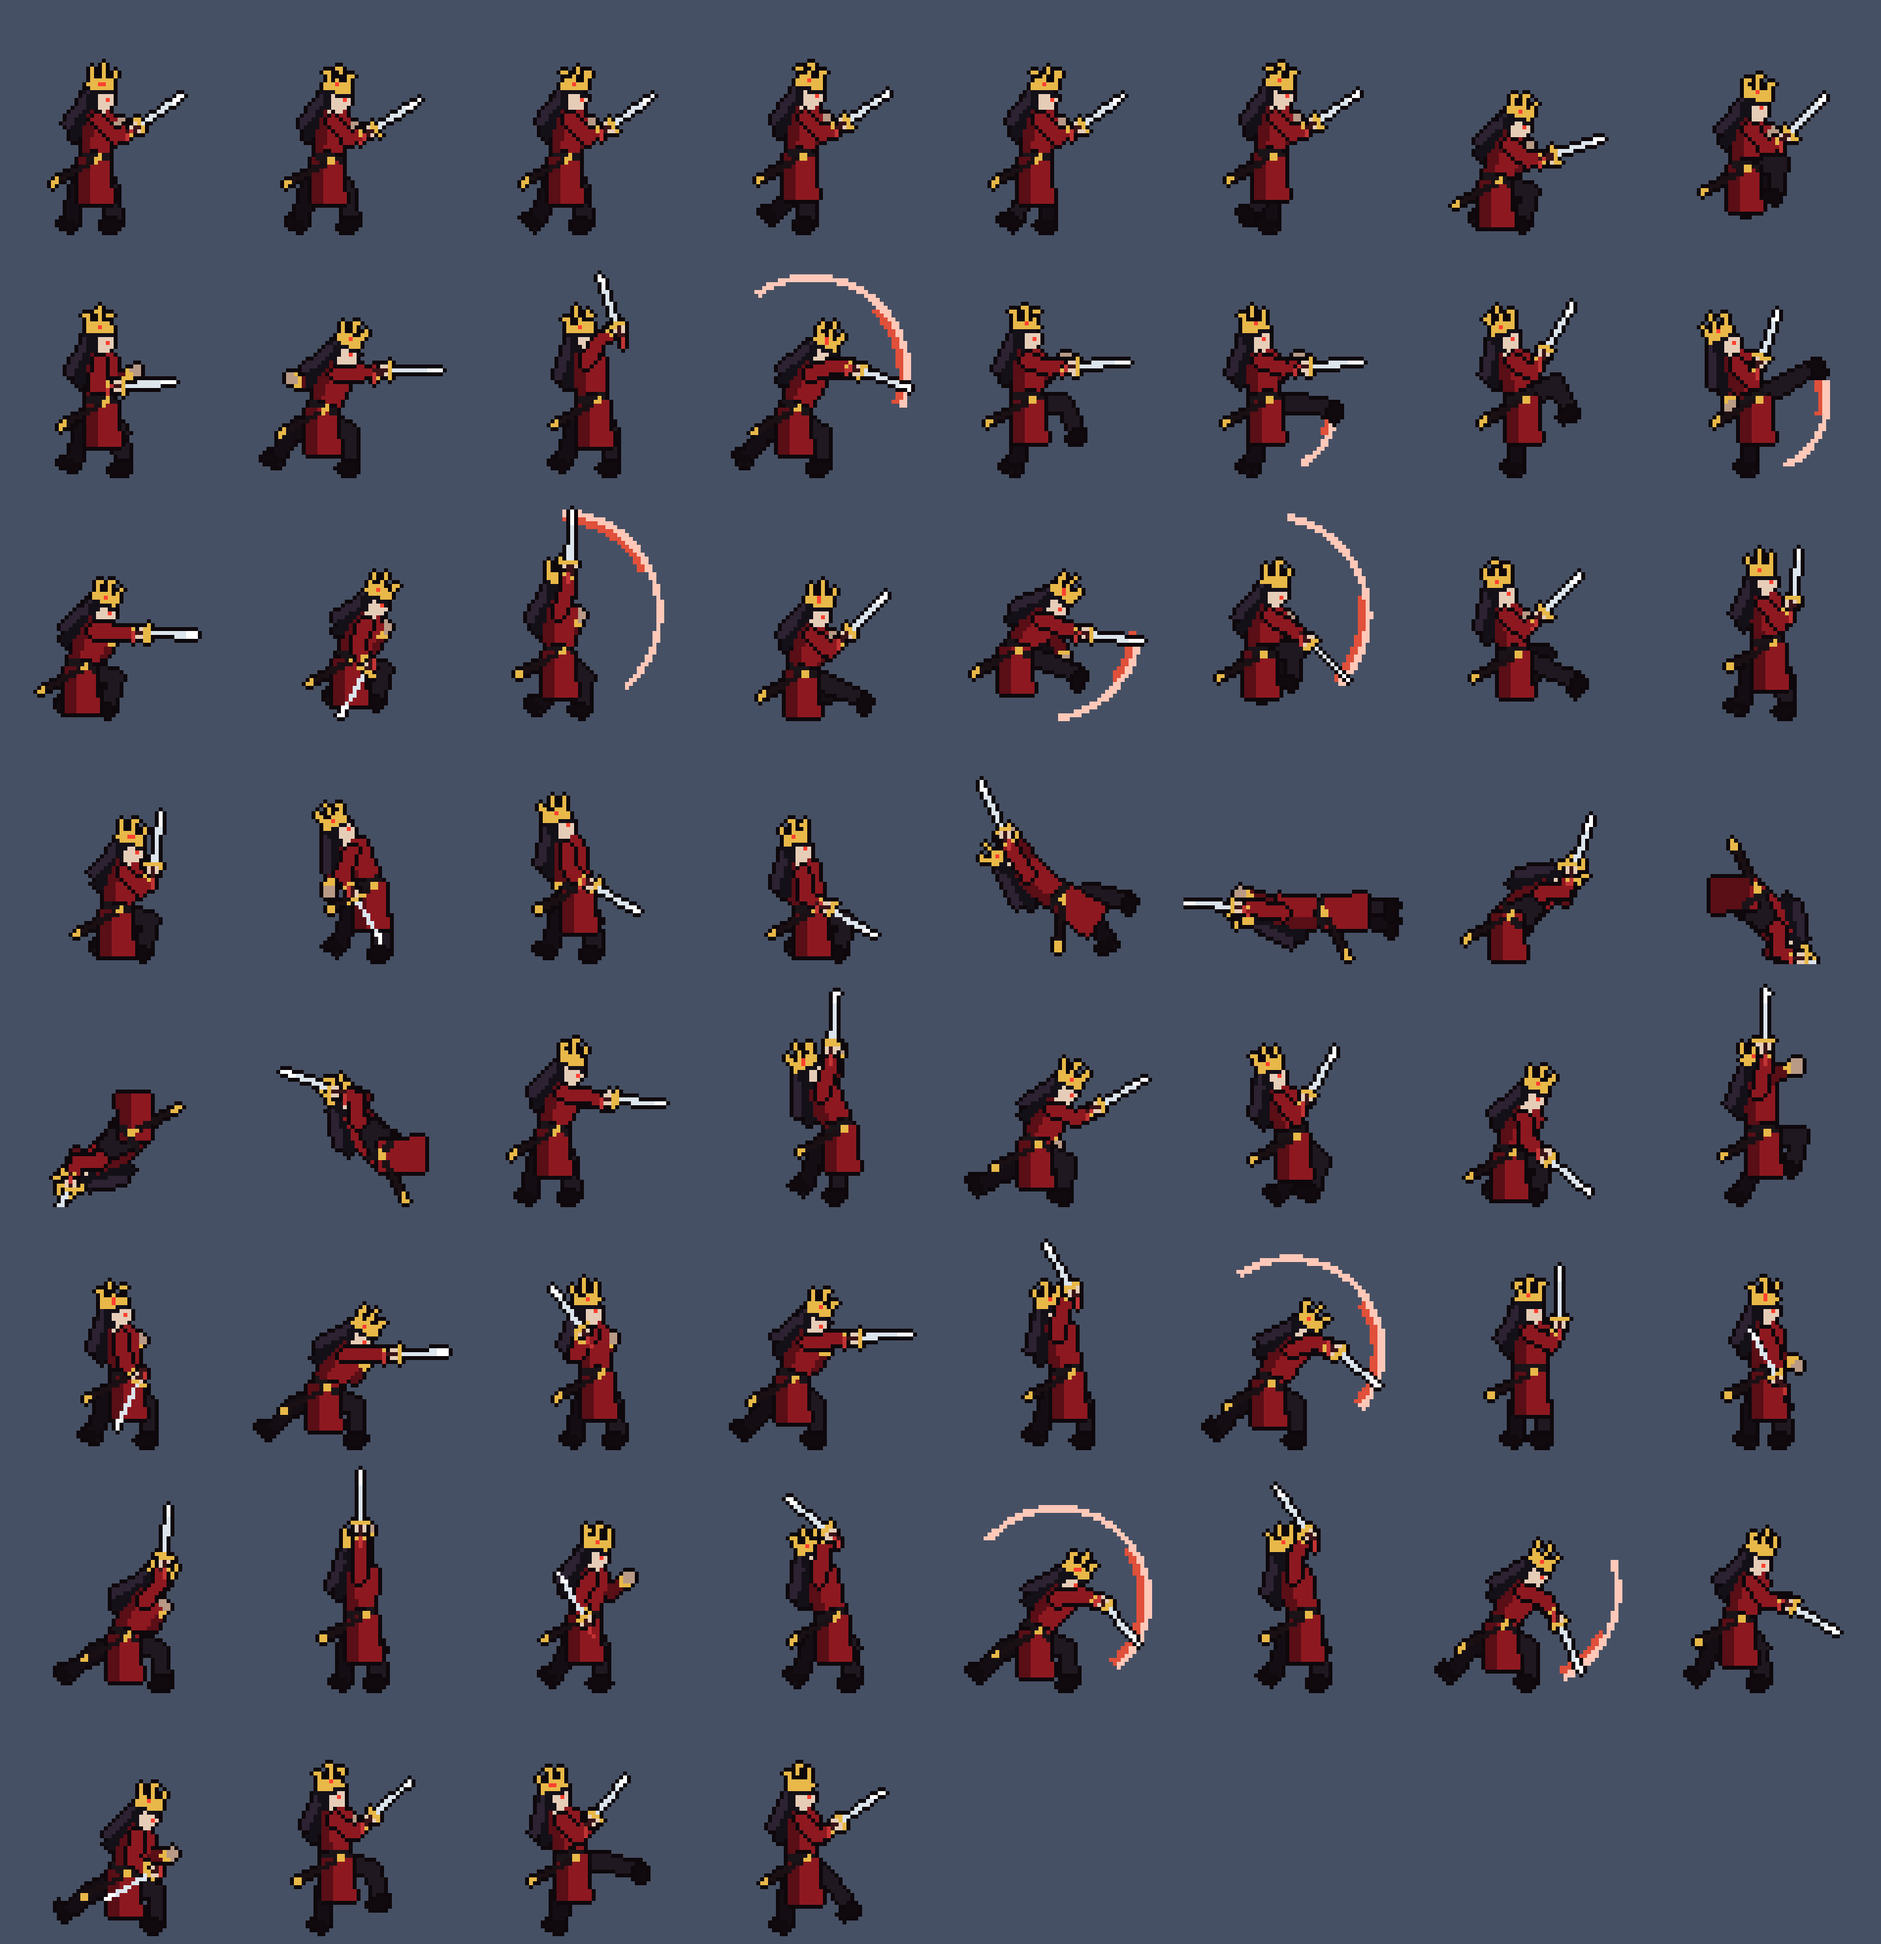
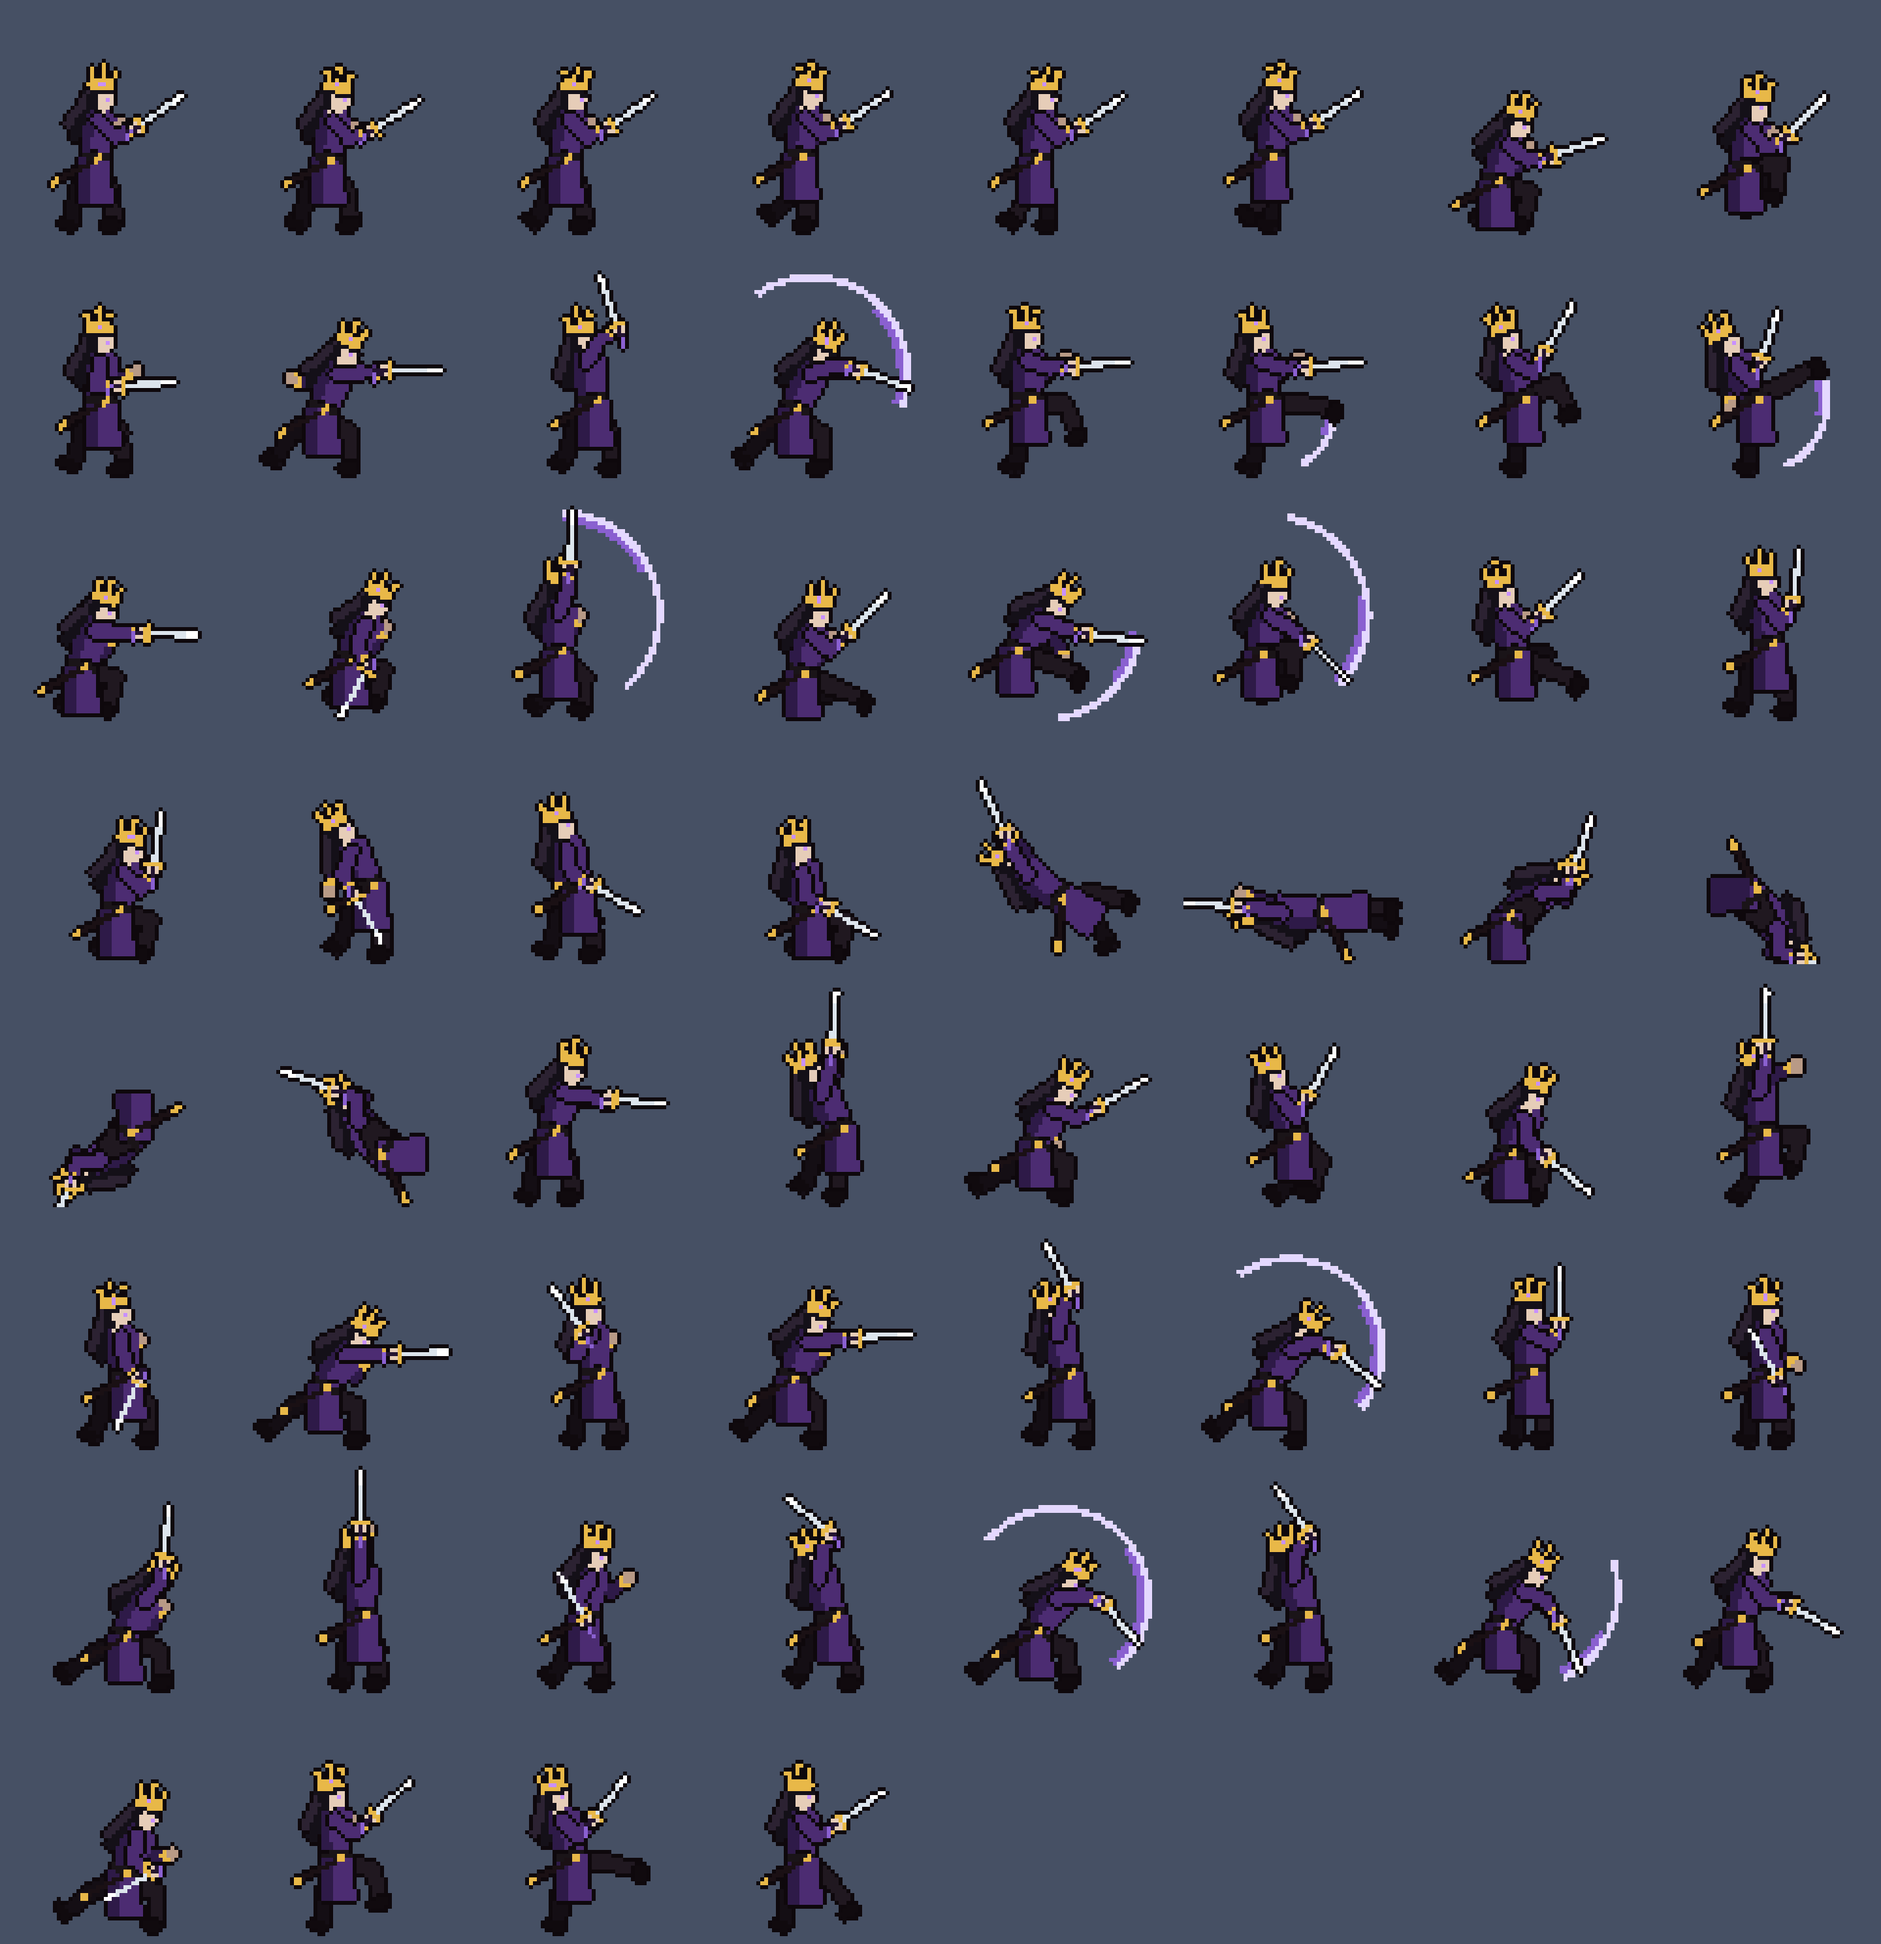
Cheonma: 삼절검 strokes cross in an X with a third straight down the middle; Cheonma's colour is violet and steel (red is left for the Blood Demon)
Claude-Session: https://claude.ai/code/session_019D5KftdDEDaYgXZVtoNLE8

diff --git a/web/src/fighter.ts b/web/src/fighter.ts
@@ -896,7 +896,7 @@ export function clearGhosts(i: number): void { mGN[i] = 0; }
 
 function ghostColor(i: number): number {
   if (F[i].rage > 0) return RGB(150, 24, 18);
-  return F[i].prefix === "heukrim" || F[i].prefix === "sd_heuksa" ? RGB(74, 56, 96) : F[i].prefix === "cheonma" ? RGB(96, 30, 40) : -1;
+  return F[i].prefix === "heukrim" || F[i].prefix === "sd_heuksa" ? RGB(74, 56, 96) : F[i].prefix === "cheonma" ? RGB(60, 44, 92) : -1;
 }
 
 function updateGhosts(i: number): void {
@@ -1025,7 +1025,7 @@ function drawOne(i: number): void {
   }
   if ((demonAwake(i) || drainLinked(i)) && tint < 0) {
     if (Math.trunc(mFrame / 2) % 2 === 0 || drainLinked(i)) {
-      const red = RGB(200, 30, 50);
+      const red = drainLinked(i) ? RGB(200, 30, 50) : RGB(130, 80, 210);   // Cheonma's awakening glows violet
       R.drawSprite(currentSprite(i), x - 1, y, flip, red);
       R.drawSprite(currentSprite(i), x + 1, y, flip, red);
       R.drawSprite(currentSprite(i), x, y - 1, flip, red);
@@ -1088,12 +1088,12 @@ function drawDemonPalm(i: number): void {
   const lit = t <= D.MvActive[F[i].mv];
   const ink = (ch: string): number => {
     switch (ch) {
-      case "o": return RGB(90, 8, 22);
-      case "d": return RGB(150, 20, 38);
-      case "r": return lit ? RGB(220, 40, 58) : RGB(150, 20, 38);
-      case "l": return lit ? RGB(255, 120, 130) : RGB(220, 40, 58);
-      case "w": return lit ? RGB(255, 215, 215) : RGB(255, 120, 130);
-      case "g": return lit ? RGB(255, 70, 90) : -1;
+      case "o": return RGB(34, 14, 56);
+      case "d": return RGB(80, 40, 130);
+      case "r": return lit ? RGB(124, 72, 196) : RGB(80, 40, 130);
+      case "l": return lit ? RGB(184, 150, 240) : RGB(124, 72, 196);
+      case "w": return lit ? RGB(238, 232, 255) : RGB(184, 150, 240);
+      case "g": return lit ? RGB(150, 100, 230) : -1;
     }
     return -1;
   };
@@ -1546,7 +1546,8 @@ function waveAt(i: number, k: number, t: number, ox: number): [number, number] {
 }
 
 
-const C_DARK = () => RGB(70, 6, 18), C_RED = () => RGB(200, 24, 44), C_HOT = () => RGB(255, 96, 104), C_CORE = () => RGB(255, 236, 236);
+// Cheonma's colour is violet and steel (red belongs to the Blood Demon)
+const C_DARK = () => RGB(34, 14, 56), C_RED = () => RGB(104, 52, 168), C_HOT = () => RGB(176, 140, 236), C_CORE = () => RGB(240, 236, 255);
 
 function burst(cx: number, cy: number, s: number, big: number): void {
   if (s < 0 || s > 12) return;
@@ -1630,32 +1631,33 @@ function drawCrash(i: number, t: number): void {
       }
     }
   } else {
-    // 삼절검: three blades fall slanting the same way (front-high to back-low) and cut three parallel scars;
-    // when all three strike clean the scars stay as afterimages, then break together
+    // 삼절검: three blades fall slanting the same way (front-high to back-low) and cut three parallel brush strokes;
+    // when all three strike clean the strokes stay as smouldering afterimages, then break together
     const ghost = (f.hitCount & GHOST) !== 0;
     for (let k = 0; k < 3; k++) {
-      const s = t - CRASH_BLADES[k], g = scarLine(i, k);
-      if (s === -2 || s === -1) thickLine(g[0], g[1], g[2], g[3], 0.4, C_RED(), C_RED());   // a faint line marks the cut
+      const s = t - CRASH_BLADES[k], g = scarLine(i, k), bend = [3, -3, 0][k] * f.facing;
+      if (s === -2 || s === -1) brush(g, bend, 0.5, C_RED(), C_RED(), 1, t);                 // a faint line marks the cut
       if (s === 0) drawFallingBlade(g, 0.45);
-      if (s === 1) { drawFallingBlade(g, 1); thickLine(g[0], g[1], g[2], g[3], 3.5, C_CORE(), C_HOT()); }
-      if (s >= 2 && s < 5) thickLine(g[0], g[1], g[2], g[3], 3.5 - s * 0.5, s < 3 ? C_CORE() : C_HOT(), C_RED());
+      if (s === 1) { drawFallingBlade(g, 1); brush(g, bend, 4.5, C_CORE(), C_HOT(), 1, t); }
+      if (s >= 2 && s < 5) {
+        for (let e = 2; e >= 1; e--) brush(g, bend, 2.5, e === 1 ? C_RED() : C_DARK(), C_DARK(), 0.5, t, e * 3);   // the sweep's trail
+        brush(g, bend, 4.5 - s * 0.5, s < 3 ? C_CORE() : C_HOT(), C_RED(), 1, t);
+      }
       if (s >= 1) burst(g[2], g[3], s - 1, k === 2 ? 3 : 2);
-      if (ghost && s >= 5 && t < CRASH_GHOST_END) {        // the scar left hanging in the air, trembling
-        const nx = -(g[3] - g[1]), ny = g[2] - g[0], L = Math.hypot(nx, ny), j = (t + k) % 4 < 2 ? 1.5 : -1.5;
-        const ox = nx / L * j, oy = ny / L * j;
-        thickLine(g[0] + ox, g[1] + oy, g[2] + ox, g[3] + oy, 1, C_DARK(), C_DARK());
-        thickLine(g[0], g[1], g[2], g[3], (t + k) % 2 ? 1.8 : 1.3, C_HOT(), C_RED());
-      } else if (!ghost && s >= 5 && s < 9) thickLine(g[0], g[1], g[2], g[3], 0.8, C_RED(), C_DARK());
-      if (ghost && t >= CRASH_GHOST_END && t < CRASH_GHOST_END + 2) thickLine(g[0], g[1], g[2], g[3], 4, C_CORE(), C_HOT());
+      if (ghost && s >= 5 && t < CRASH_GHOST_END) {        // the stroke left burning in the air
+        brush(g, bend, 3, C_DARK(), C_DARK(), 0.6, t, 3);
+        brush(g, bend, (t + k) % 2 ? 3 : 2.6, C_HOT(), C_RED(), 1, t);
+        embers(g, bend, t - CRASH_BLADES[k] - 5, k);
+      } else if (!ghost && s >= 5 && s < 9) brush(g, bend, 1.5, C_RED(), C_DARK(), 0.6, t);
+      if (ghost && t >= CRASH_GHOST_END && t < CRASH_GHOST_END + 2) brush(g, bend, 5, C_CORE(), C_HOT(), 1, t);
       if (ghost) {
         const e = t - CRASH_GHOST_END - 1;
         for (let q = 0; q < 3; q++) {
-          const u = 0.2 + q * 0.3;
-          burst(g[0] + (g[2] - g[0]) * u, g[1] + (g[3] - g[1]) * u, e - q, k === 2 ? 3.2 : 2.4);
+          const [bx, by] = bez(g, bend, 0.2 + q * 0.3);
+          burst(bx, by, e - q, k === 2 ? 3.2 : 2.4);
         }
-        if (e >= 0 && e < 10) for (let q = 0; q < 16; q++) {              // the scars shatter into red shards
-          const u = (q + 0.5) / 16, a = q * 0.9 + k, d = 3 + e * (2 + (q % 3));
-          const x0 = g[0] + (g[2] - g[0]) * u, y0 = g[1] + (g[3] - g[1]) * u;
+        if (e >= 0 && e < 10) for (let q = 0; q < 16; q++) {              // the strokes shatter into red shards
+          const a = q * 0.9 + k, d = 3 + e * (2 + (q % 3)), [x0, y0] = bez(g, bend, (q + 0.5) / 16);
           R.fillRect(clng(x0 + Math.cos(a) * d), clng(y0 + Math.sin(a) * d * 0.7 + e * e * 0.12), 2, 1, q % 3 ? C_HOT() : C_CORE());
         }
       }
@@ -1663,12 +1665,56 @@ function drawCrash(i: number, t: number): void {
   }
 }
 
-/** Scar k of 삼절검 as [x0, y0, x1, y1]: parallel cuts through the marked spot, high in front to low behind. */
+/** A point on stroke g, bowed sideways by `bend` pixels at the middle (quadratic curve). */
+function bez(g: [number, number, number, number], bend: number, u: number): [number, number] {
+  const L = Math.hypot(g[2] - g[0], g[3] - g[1]), nx = -(g[3] - g[1]) / L, ny = (g[2] - g[0]) / L;
+  const cx = (g[0] + g[2]) / 2 + nx * bend * 2, cy = (g[1] + g[3]) / 2 + ny * bend * 2, v = 1 - u;
+  return [v * v * g[0] + 2 * v * u * cx + u * u * g[2], v * v * g[1] + 2 * v * u * cy + u * u * g[3]];
+}
+
+/** One brush stroke of the sword: a hairline at the start, full in the middle, the tail splitting into bristles.
+ *  `back` shifts it against the cut's bend (the trail of the sweep); `dens` < 1 leaves pixels out. */
+function brush(g: [number, number, number, number], bend: number, w: number, core: number, edge: number,
+  dens: number, t: number, back = 0): void {
+  const N = 70;
+  for (let k = 0; k <= N; k++) {
+    const u = k / N, [x, y] = bez(g, bend, u), [x2, y2] = bez(g, bend, Math.min(1, u + 0.01));
+    const L = Math.hypot(x2 - x, y2 - y) || 1, nx = -(y2 - y) / L, ny = (x2 - x) / L;
+    const sb = Math.sign(bend) || 1, bx = x - nx * back * sb, by = y - ny * back * sb;
+    const ww = w * Math.pow(Math.sin(Math.PI * Math.min(1, u * 1.15)), 0.6);
+    if (u > 0.72) {                                     // the tail frays into three bristles
+      for (const b of [-0.7, 0, 0.7]) {
+        if (((k * 7 + b * 10 + 13) | 0) % 5 === 0) continue;
+        const px = clng(bx + nx * b * w), py = clng(by + ny * b * w);
+        if (dens >= 1 || (px + py + t) % 2 === 0) R.putPixel(px, py, b === 0 ? core : edge);
+      }
+      continue;
+    }
+    for (let d = -Math.ceil(ww); d <= Math.ceil(ww); d++) {
+      const px = clng(bx + nx * d), py = clng(by + ny * d);
+      if (dens < 1 && (px + py + t) % 2) continue;
+      R.putPixel(px, py, Math.abs(d) <= ww * 0.45 ? core : Math.abs(d) <= ww ? edge : C_DARK());
+    }
+  }
+}
+
+/** Sparks rising off a burning stroke (age a ticks since it settled). */
+function embers(g: [number, number, number, number], bend: number, a: number, k: number): void {
+  for (let q = 0; q < 12; q++) {
+    const life = (a + q * 3) % 12, u = ((q * 37 + k * 11) % 100) / 100;
+    const [x, y] = bez(g, bend, 0.08 + u * 0.8);
+    const px = clng(x + Math.sin((life + q) * 0.7) * 2), py = clng(y - life * 1.6);
+    R.putPixel(px, py, life < 4 ? C_CORE() : life < 8 ? C_HOT() : C_RED());
+    if (life < 5) R.putPixel(px, py + 1, C_RED());
+  }
+}
+
+/** Stroke k of 삼절검 as [x0, y0, x1, y1]: the first two cross in an X on the marked spot, the third falls
+ *  straight down through the crossing. */
 function scarLine(i: number, k: number): [number, number, number, number] {
-  const f = F[i], cx = f.cineCX, cy = vint(f.footY) - 22, fx = f.facing;
-  const dx = -fx * 0.62, dy = 1, L = Math.hypot(dx, dy), ux = dx / L, uy = dy / L;
-  const off = [-9, 9, 0][k], mx = cx + uy * off * fx, my = cy - ux * off * fx;
-  return [mx - ux * 30, my - uy * 30, mx + ux * 26, my + uy * 26];
+  const f = F[i], cx = f.cineCX, cy = vint(f.footY) - 22;
+  const dx = [-0.7, 0.7, 0][k] * f.facing, dy = 1, L = Math.hypot(dx, dy), ux = dx / L, uy = dy / L, r = k === 2 ? 34 : 30;
+  return [cx - ux * r, cy - uy * r, cx + ux * (k === 2 ? 22 : r), cy + uy * (k === 2 ? 22 : r)];
 }
 
 /** The blade coming down along its cut: p = 0.45 halfway in from the sky, 1 = point at the end of the cut. */

diff --git a/web/src/fx.ts b/web/src/fx.ts
@@ -27,7 +27,7 @@ export function spawnHit(x: number, y: number, heavy: boolean, prefix: string): 
     case "seolhwa": m = RGB(255, 190, 215); o = RGB(240, 100, 150); petal = true; break;
     case "heukrim": m = RGB(185, 255, 150); o = RGB(80, 190, 70); break;
     case "hongryeon": m = RGB(255, 215, 110); o = RGB(230, 70, 60); break;
-    case "cheonma": m = RGB(255, 140, 110); o = RGB(170, 30, 40); break;
+    case "cheonma": m = RGB(190, 160, 240); o = RGB(90, 50, 150); break;
     default: m = RGB(255, 224, 102); o = RGB(255, 130, 50);
   }
   const k = spawn(x, y, heavy ? FX_HEAVY : FX_HIT);

diff --git a/tools/gen_sprites.py b/tools/gen_sprites.py
@@ -444,13 +444,13 @@ CHEONMA = dict(                          # final boss (arcade): the Heavenly Dem
         "k": "0E080C",
         "s": "E6CDB8", "S": "B89A86",          # pale skin
         "h": "141018", "H": "2C2232",          # long black hair
-        "b": "8E1820", "B": "5A0E16",          # crimson robe / shade
+        "b": "4C2C72", "B": "2E1A48",          # violet robe / shade
         "w": "E8B848",                          # gold trim / crown
         "d": "1A1418",                          # black sash
         "p": "201820", "P": "140E14",
         "n": "100A0E",
-        "e": "FF4030",                          # glowing red eyes
-        "t": "FFC8B8", "T": "E0503A",          # demon trail
+        "e": "C890FF",                          # glowing violet eyes
+        "t": "E4D8FF", "T": "8A60D0",          # demon trail (violet: red is the Blood Demon's)
     },
     look=dict(arm_front="b", arm_back="B", arm_front2="b", arm_back2="B",
               leg_front="p", leg_back="P", boot="n",
@@ -459,7 +459,7 @@ CHEONMA = dict(                          # final boss (arcade): the Heavenly Dem
     head="cheonma",
     scabbard=dict(length=14),
 )
-CHEONMA["palette"].update({"W": "DCE4EC", "Q": "FFFFFF", "y": "E8B848", "m": "3A1418", "r": "C23434", "c": "1A1014"})
+CHEONMA["palette"].update({"W": "DCE4EC", "Q": "FFFFFF", "y": "E8B848", "m": "241430", "r": "8A60D0", "c": "1A1014"})
 
 # Cheonma with the long sword drawn (sp2 draws / sheathes, the super leaves it drawn): Muyeong's sword work
 CHEONMA_SW = dict(CHEONMA, name="cheonmasw", weapon=dict(kind="sword", length=14),
